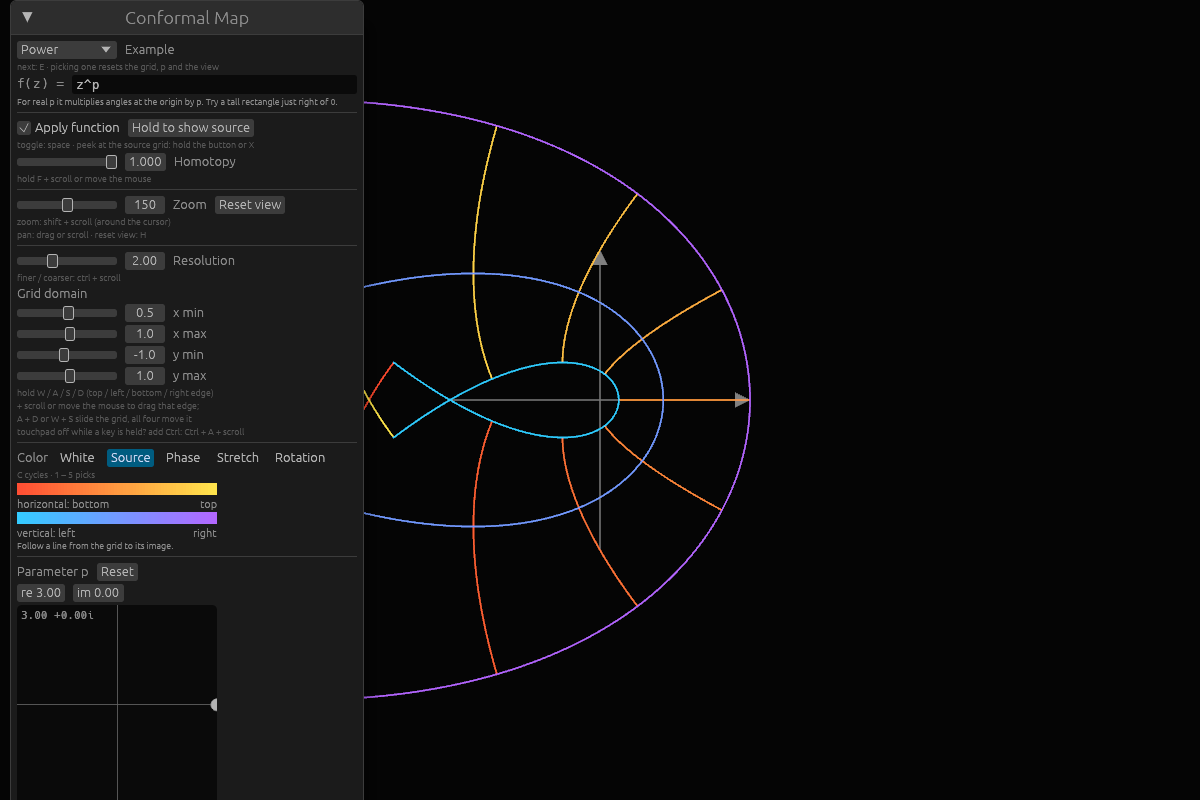
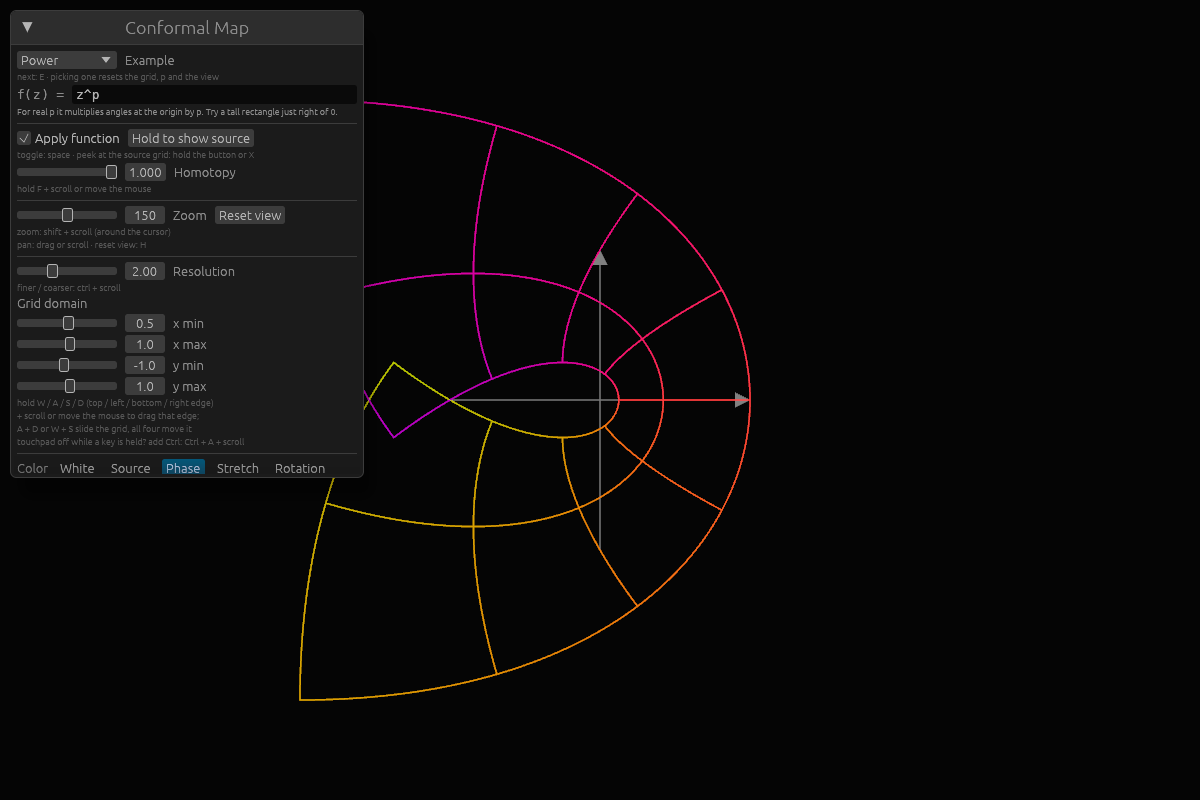
README: screenshots in the default Phase coloring
The example screenshots were taken in Source coloring; they now show the
default, Phase, and the README says so. Rendered headless at 1200x800
(Xvfb + Mesa lavapipe), same views as before.

diff --git a/README.md b/README.md
@@ -10,7 +10,8 @@ Built with [nannou](https://nannou.cc) 0.20 (on Bevy) and its egui integration.
 Pick one from the **Example** menu in the control window, or press `e` to step
 through them. Each brings its own grid and parameter, and fills in its formula,
 which you can then edit (see [Usage](#usage)). The screenshots use the
-Source coloring (`2`): horizontal lines warm, vertical lines cool.
+default Phase coloring (`3`): every point keeps the hue of its angle arg z in
+the source grid, so you can see where each direction went.
 
 The basic one is a Möbius transformation, p · (1 − z)/(1 + z), applied to the
 unit square. It should be called a Mickey Mouse function, as every Möbius
@@ -112,8 +113,8 @@ Both print the store path. The binary is `<path>/bin/conformal-visualizer`.
     * **White**: plain lines.
     * **Source**: horizontal lines warm, vertical lines cool, shaded by
       position, so you can follow each line of the grid to its image.
-    * **Phase**: the hue of each point is the angle `arg z` of where it came
-      from. Peek at the source grid (hold `x`) to see the color wheel, then let
+    * **Phase** (the default): the hue of each point is the angle `arg z` of
+      where it came from. Peek at the source grid (hold `x`) to see the color wheel, then let
       go to see where each color went.
     * **Stretch**: `|f'(z)|`, how much the map scales lengths near each point.
       Blue shrinks, grey keeps, orange grows.
